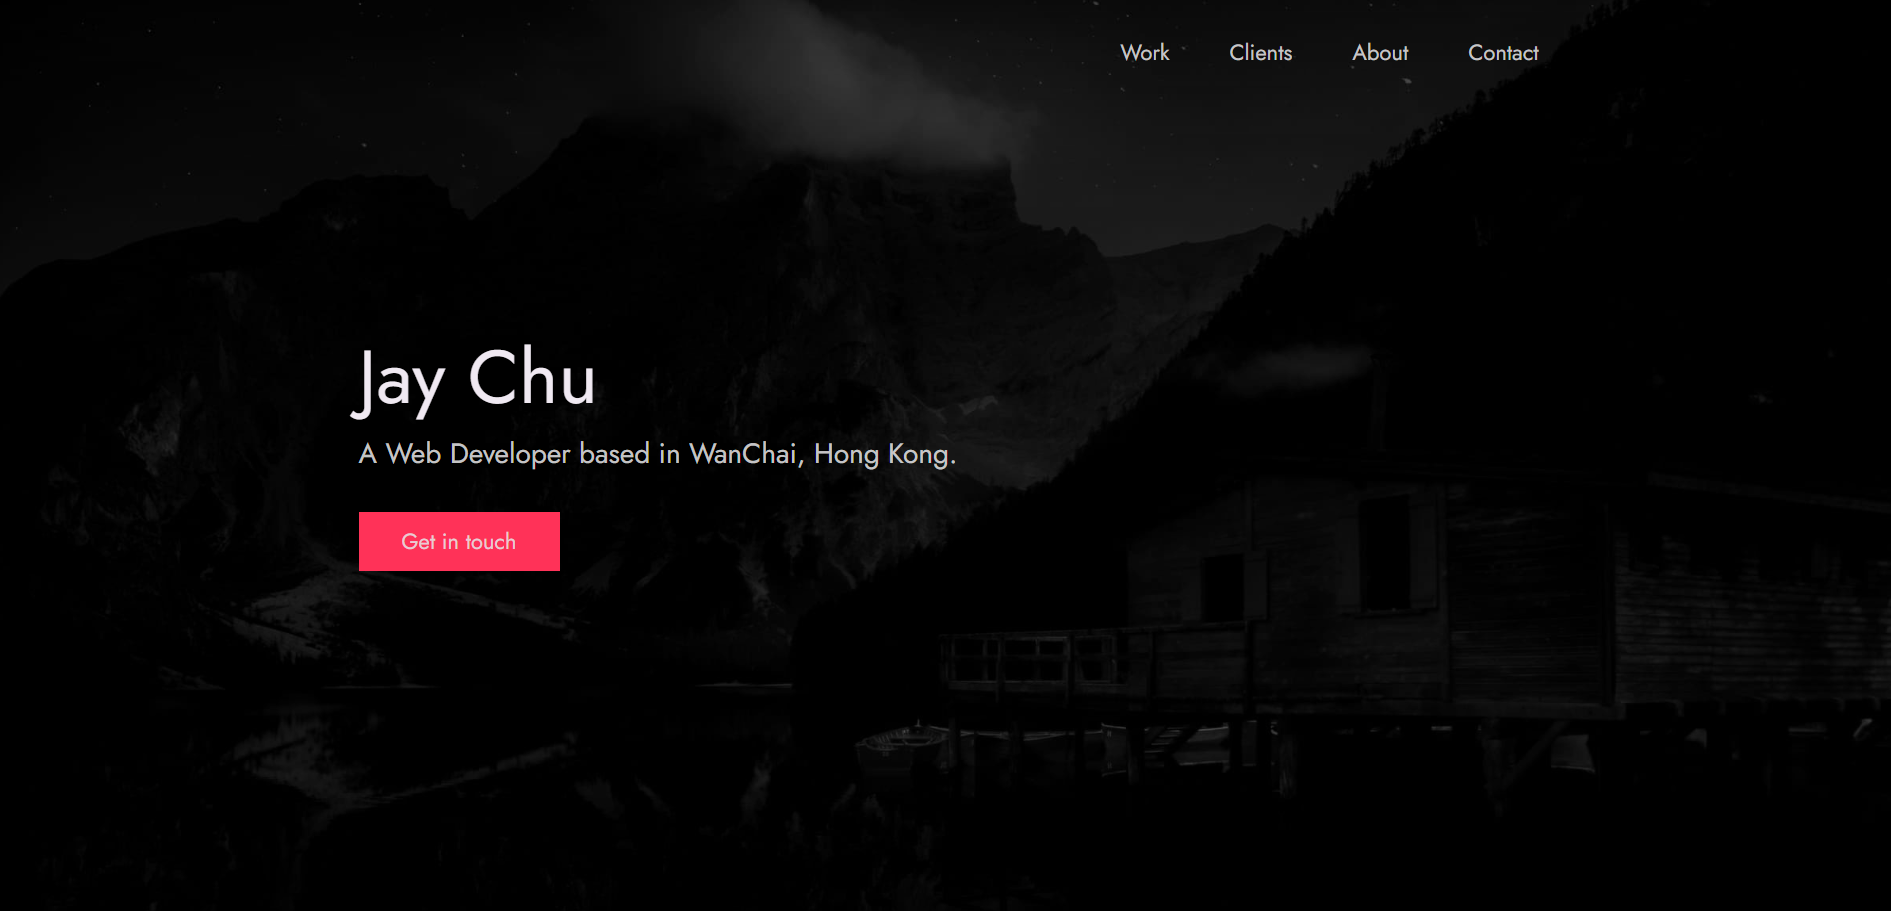
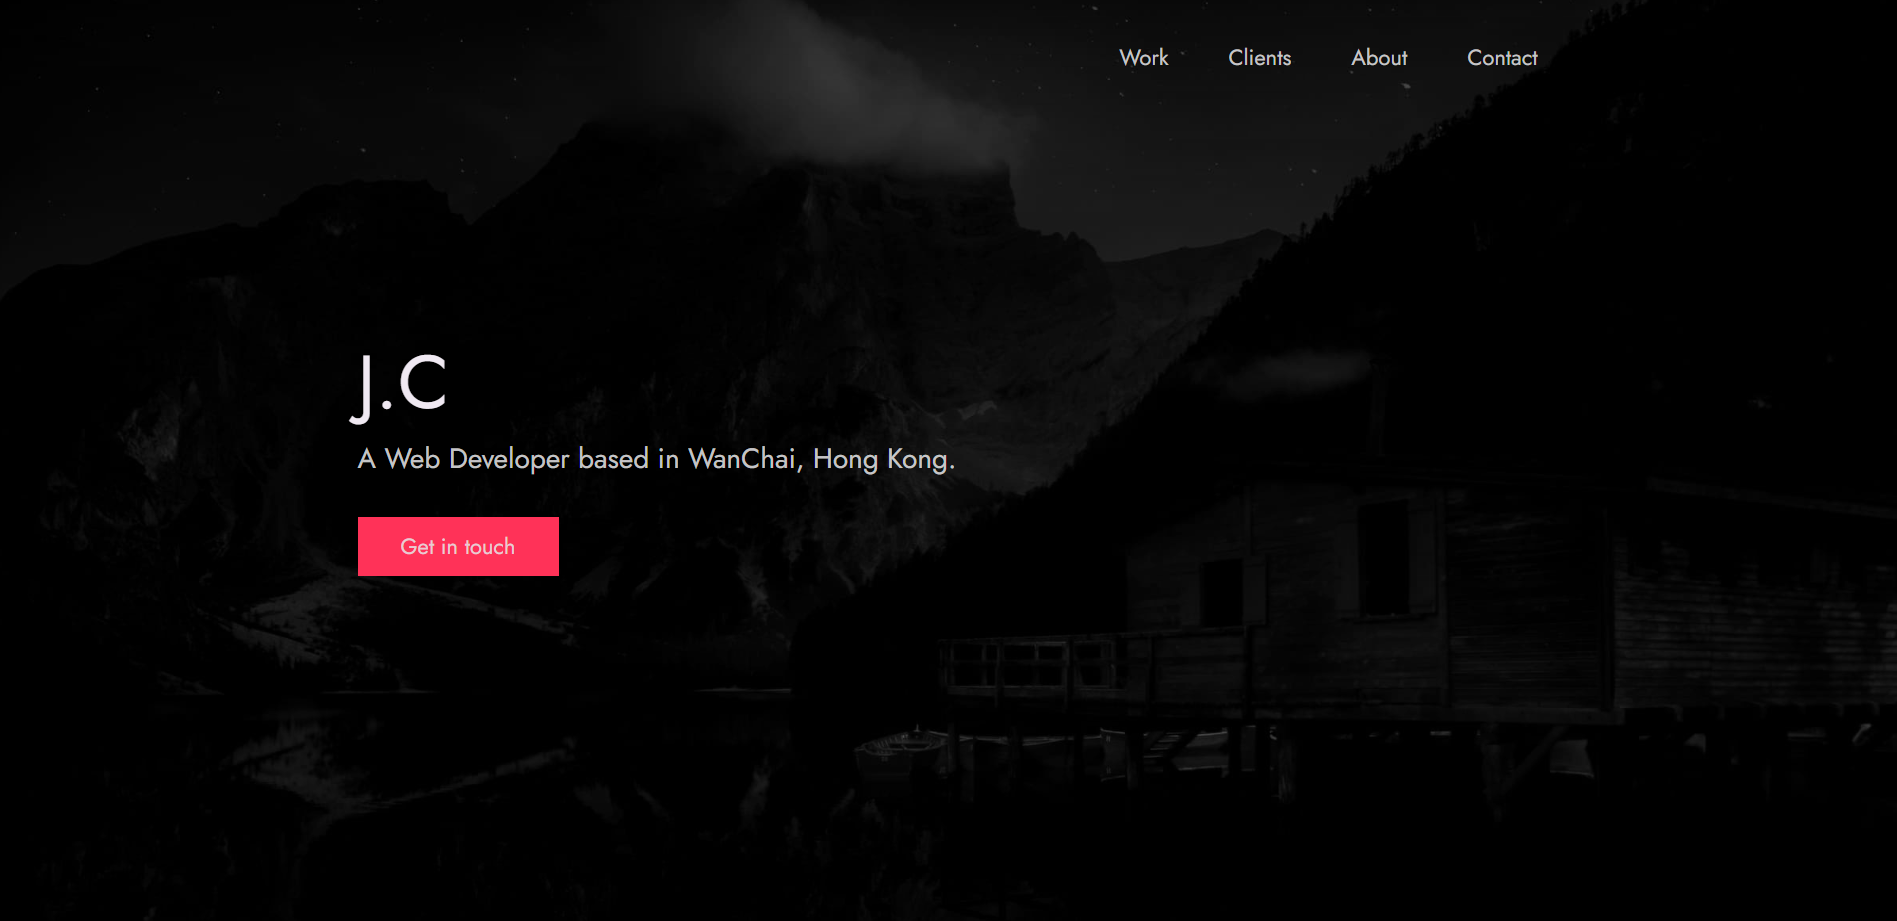
update: templates

diff --git a/index.html b/index.html
@@ -1,18 +1,3 @@
-<!-- 
-  Hello 😊.
-
-  This template is designed and developed by J.C
-  for anyone to use for free or customize the way they like.
-
-  Github Repo: https://github.com/flurryunicorn/portfolio-template/
-
-  For business & inquires, contact me => jaychu259@gmail.com
--->
-
-<!--
-  Follow the instructions written in comments to create your stunning portfolio
--->
-
 <!DOCTYPE html>
 <html lang="en">
   <head>
@@ -331,7 +316,7 @@
         <!-- If you give me some credit by keeping the below paragraph, will be huge for me 😊 Thanks. -->
         <p>
           &copy; 2020 - Template designed & developed by
-          <a href="#" class="link">Jay</a>.
+          <a href="#" class="link">J.C</a>.
         </p>
       </div>
     </footer>
